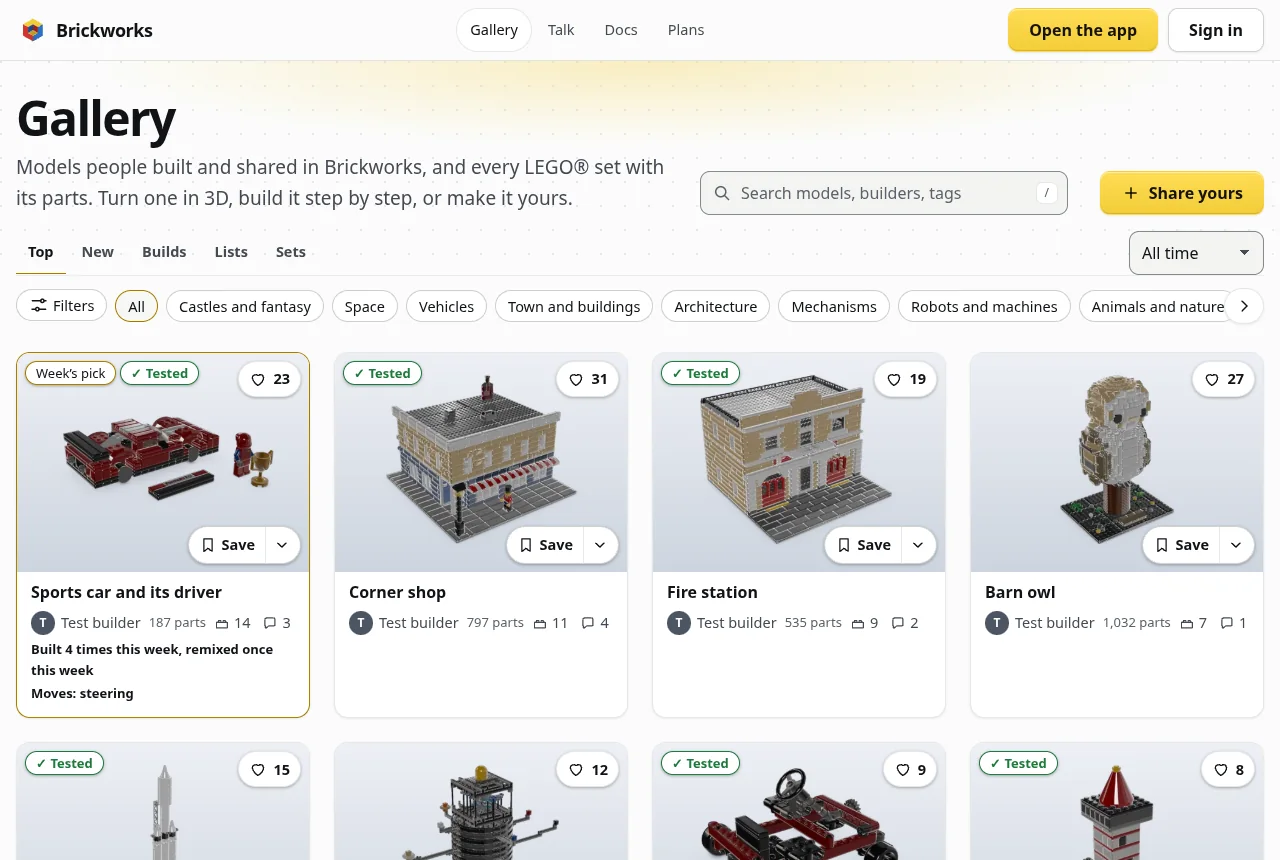
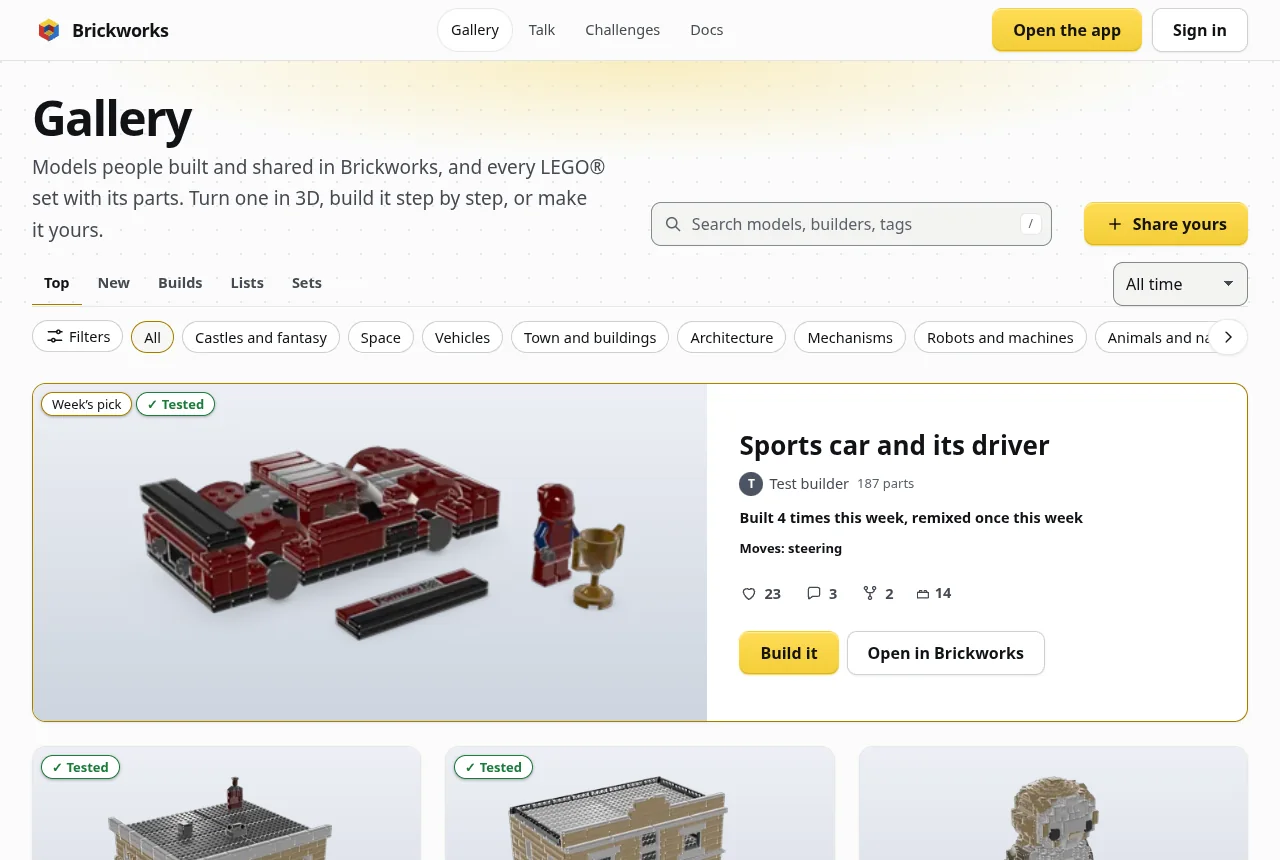
The docs showed the old gallery and Talk, and the board colours broke the token rule
The gallery, Talk, set and model pictures in the docs showed four small
cards and Talk's tabs. They are made again from the merged tree, with
words for the pick's row, the cards' Like, comments and Remix, the board
tiles and the thread rows. Six pictures other units' pages named but
never made (set-built-from, set-built-empty, talk-wip) are made too.

The design check refuses a custom property made outside :root, and each
board's colour was one. Each board now names its colour directly.

diff --git a/web/site.css b/web/site.css
@@ -2037,14 +2037,15 @@ details[open] > .menu-list { animation: drop var(--motion-open) var(--ease); }
 /* A board's icon on its own tint (Talk's tiles, a row with no picture). */
 .talk-tile {
 	display: grid; place-items: center; width: 100%; height: 100%; border-radius: inherit;
-	background: color-mix(in srgb, var(--tile, var(--accent)) 16%, var(--panel)); color: color-mix(in srgb, var(--tile, var(--accent)) 70%, var(--ink));
+	background: color-mix(in srgb, var(--accent) 16%, var(--panel)); color: color-mix(in srgb, var(--accent) 70%, var(--ink));
 }
 .talk-tile .icon { width: 30px; height: 30px; stroke-width: 1.6; }
-.b-show { --tile: var(--blue); }
-.b-help { --tile: var(--green); }
-.b-ideas { --tile: var(--yellow); }
-.b-challenges { --tile: var(--red); }
-.b-news { --tile: var(--ink-soft); }
+/* Each board its own colour, on the tile itself or on the board's link around it. */
+:is(.talk-tile.b-show, .b-show > .talk-tile) { background: color-mix(in srgb, var(--blue) 16%, var(--panel)); color: color-mix(in srgb, var(--blue) 70%, var(--ink)); }
+:is(.talk-tile.b-help, .b-help > .talk-tile) { background: color-mix(in srgb, var(--green) 16%, var(--panel)); color: color-mix(in srgb, var(--green) 70%, var(--ink)); }
+:is(.talk-tile.b-ideas, .b-ideas > .talk-tile) { background: color-mix(in srgb, var(--yellow) 16%, var(--panel)); color: color-mix(in srgb, var(--yellow) 70%, var(--ink)); }
+:is(.talk-tile.b-challenges, .b-challenges > .talk-tile) { background: color-mix(in srgb, var(--red) 16%, var(--panel)); color: color-mix(in srgb, var(--red) 70%, var(--ink)); }
+:is(.talk-tile.b-news, .b-news > .talk-tile) { background: color-mix(in srgb, var(--ink-soft) 16%, var(--panel)); color: color-mix(in srgb, var(--ink-soft) 70%, var(--ink)); }
 .talk-row-title { margin: 0; font-size: var(--t-h3); font-weight: 650; line-height: 1.35; overflow-wrap: anywhere; }
 .talk-row-title a { color: var(--ink); text-decoration: none; }
 .talk-row-title a::after { content: ""; position: absolute; inset: 0; border-radius: inherit; }

diff --git a/docs-site/gallery.md b/docs-site/gallery.md
@@ -16,7 +16,7 @@ api:GET/POST /api/share
 lib:directory
 -->
 
-![The gallery's front on a computer: the Gallery heading and search, the tabs Top, New, Builds, Lists and Sets with All time beside them, Filters and the kinds as pills, then model cards, the first marked Week's pick, each with its picture, name, designer and part count.](/docs/img/gallery-top.webp "The gallery's front: Top, all time.")
+![The gallery's front on a computer: the heading, search and tabs, then the Week's pick across the page, its picture large beside its name, why it is picked, Build it and Open in Brickworks, and under it the cards three to a row, each with its picture, name, designer, part count, Like, comments and Remix.](/docs/img/gallery-top.webp "The gallery's front: Top, all time.")
 
 ## On the home page {#home}
 
@@ -88,7 +88,7 @@ ui:a list's pages
 
 The gallery's front (Top, all time, nothing searched) has shelves among the cards:
 
-- **Week's pick**, the first card, with a line saying why: chosen each Monday from the past seven days by builds, remixes and the Tested mark, never one picked in the past eight weeks. A pick the site's owner made says *Chosen by Brickworks*.
+- **Week's pick**, a row of its own across the top with its picture large, with a line saying why and **Build it** and **Open in Brickworks** beside it; rest the pointer on its picture to turn the model in 3D. It is chosen each Monday from the past seven days by builds, remixes and the Tested mark, never one picked in the past eight weeks. A pick the site's owner made says *Chosen by Brickworks*.
 - **Today in the gallery**: one model a day, by its past 30 days' likes, builds, comments, remixes and the Tested mark, not again for four weeks; and one set from [the LDraw library](/docs/ldraw-library), never the same twice in 90 days.
 - **You can build now**, signed in: models you own every part for, from [your collection](/docs/collection). With no collection yet it says how to add one (in the app, **Build › My collection…**).
 - **Small builds**: under 200 parts, an evening's build, the most built and remixed first, with **See every small build**.
@@ -103,7 +103,7 @@ lib:the gallery's daily choice
 
 ## A card {#card}
 
-Every model is a card, the same everywhere on the site: its picture, its name, its designer (press to open [their page](#designer)), its part count, and how many liked, built and commented on it once there are any. The heart on the picture likes it. **✓ Tested** says it passed [Brickworks' four tests](/docs/sharing#tested). A card says *Moves: steering, boom* when something on it moves, which anybody can move on its page, and *Won* with a challenge's name when it won one.
+Every model is a card, the same everywhere on the site: its picture, its name, its designer (press to open [their page](#designer)), its part count, and how many liked, built and commented on it once there are any. A set from LDraw's library names who modelled it, and under that who shares it. In the gallery a card ends in **Like**, its comments and **Remix** (a copy of your own to change, in the studio), each with its count once there is one; a card lifts as the pointer comes over it. **✓ Tested** says it passed [Brickworks' four tests](/docs/sharing#tested). A card says *Moves: steering, boom* when something on it moves, which anybody can move on its page, and *Won* with a challenge's name when it won one.
 
 Signed in with [your collection](/docs/collection), a card also says how much of the model you have: **You have 87%** from half its parts up, **✓ You have every part** when you have them all, and nothing under half. Parts are matched by part, colour and how many, each set counting as many times as you own it (**You own** on [its page](/docs/lists#own)). Only you see it, and the gallery counts it for the whole page at once.
 

diff --git a/docs-site/talk.md b/docs-site/talk.md
@@ -10,7 +10,7 @@ description: The boards, starting a thread and replying, pasting a model or a st
 
 Talk is where builders on Brickworks talk about anything, not only under one model: show what you built, ask for help with a step, share ideas and talk about the month's challenge. It is at [brickworks.diy/talk](/talk), linked from the top of every page. Anybody can read it; you sign in to write.
 
-![Talk at brickworks.diy/talk: Start a thread and Search Talk, the tabs Latest, Show and tell, Help, Ideas, Challenges and News with their counts, the newest threads with their board, first words, who started them and how many replies, and beside them what builders said under the models, then the boards.](/docs/img/talk-list.webp "brickworks.diy/talk.")
+![Talk at brickworks.diy/talk: Start a thread and Search Talk, the six boards as tiles with an icon and a count each, the newest threads each with its model's picture or its board's icon, who started it and who replied last, and beside them what builders said under the models.](/docs/img/talk-list.webp "brickworks.diy/talk.")
 
 <!-- covers
 ui:the talk forum
@@ -28,7 +28,7 @@ ui:the latest in talk on the home page
 - **Challenges**: each month's [challenge](/docs/challenges) has its own thread, started by Brickworks.
 - **News**: what is new on Brickworks. Only Brickworks starts a thread here; anybody can reply.
 
-Beside the threads, **On the models** shows the newest comments under the gallery's models. The [home page](/docs/gallery#home) shows the newest threads too, under its row of models, once there are three. **Talk** is in the header beside Gallery and Challenges, in a phone's Menu and in the footer's Community.
+Each thread's row shows the picture of the model it is about, or its board's icon, the faces of who started it and who replied last, and how many replies it has and when the last came. Beside the threads, **On the models** shows the newest comments under the gallery's models, each with the model's picture. The [home page](/docs/gallery#home) shows the newest threads too, under its row of models, once there are three. **Talk** is in the header beside Gallery and Challenges, in a phone's Menu and in the footer's Community.
 
 ## Start a thread {#start}
 
@@ -60,7 +60,7 @@ ui:a thread in talk
 
 ## Search and feeds {#search}
 
-**Search Talk** finds threads by the words in their titles and posts, the start of a word too. Each board has an RSS feed (**RSS feed** under the boards), and so does all of Talk, at `brickworks.diy/talk.rss`.
+**Search Talk** finds threads by the words in their titles and posts, the start of a word too. Each board has an RSS feed (**RSS feed** under On the models), and so does all of Talk, at `brickworks.diy/talk.rss`.
 
 ## Report and block {#report}
 
